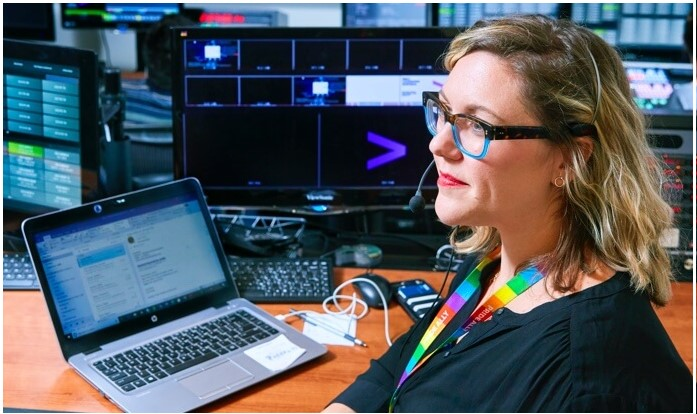
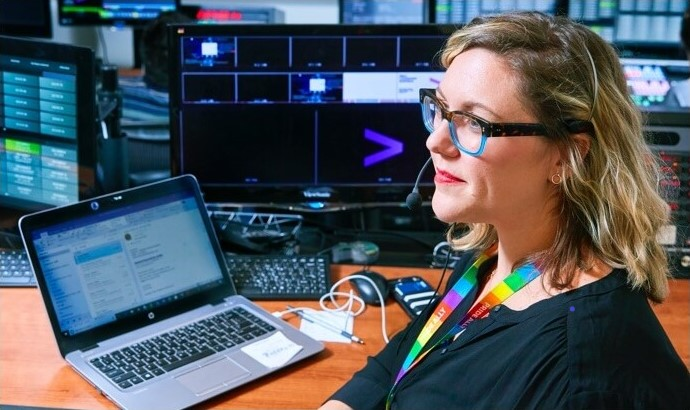
fixed miner issues and also home page lady img

diff --git a/src/components/Elements/Footer.tsx b/src/components/Elements/Footer.tsx
@@ -20,14 +20,14 @@ const FOOTER_DATA = [
         text: "Case Studies",
         link: "/case-studies",
       },
-      {
-        text: "Why Infosight",
-        link: "/why-infosight",
-      },
-      {
-        text: "About us",
-        link: "/about-us",
-      },
+      // {
+      //   text: "Why Infosight",
+      //   link: "/why-infosight",
+      // },
+      // {
+      //   text: "About us",
+      //   link: "/about-us",
+      // },
       {
         text: "Contact us",
         link: "/contact",
@@ -66,7 +66,7 @@ const Footer = () => {
     <ContentContainer>
       <div className="pt-5 lg:pt-20 flex flex-col-reverse gap-5 lg:flex-row items-start justify-between w-full">
         <div className="flex flex-col gap-3 ">
-          <a href="home-page">
+          <a href="/">
             <Image src={logoImg} alt="" className="w-56" />
           </a>
           <div>

diff --git a/src/components/HomePage/sub/OurServices.tsx b/src/components/HomePage/sub/OurServices.tsx
@@ -15,7 +15,7 @@ const OURSERVICES_DATA = [
     title: "Managed Security Services",
     description:
       "InfoSight's Security Operations Center (SOC) leverages sound and repeatable processes to mitigate threats in a systematic approach delivering superior outcomes with no alert fatigue ever.",
-    link: "SECaaS",
+    link: "/mitigator-vulnerability-threat-manager",
   },
   {
     img: serviceIcon2,
@@ -43,7 +43,7 @@ const OURSERVICES_DATA = [
     title: "Managed EDR",
     description:
       "InfoSight's Endpoint Detection & Response (EDR) provides you with real time incident response, enterprise remediation and threat containment 24x7x365. Coupled with our Security Operations Center (SOC).",
-    link: "managed-EDR",
+    link: "managed-edr",
   },
   {
     img: serviceIcon6,

diff --git a/src/components/HomePage/sub/WeAre.tsx b/src/components/HomePage/sub/WeAre.tsx
@@ -35,7 +35,11 @@ const WeAre = () => {
               </p>
               <Button text="Watch Video" onClick={handleOpenModal} />
             </div>
-            <Image src={aboutImg} alt="" className="lg:w-10/12 md:w-8/12" />
+            <Image
+              src={aboutImg}
+              alt=""
+              className="lg:w-10/12 md:w-8/12 border-2 border-gray-50 rounded-lg"
+            />
           </div>
         </div>
         <VideoPopup

diff --git a/src/components/CaseStudy/Sub/WeProvide.tsx b/src/components/CaseStudy/Sub/WeProvide.tsx
@@ -23,7 +23,7 @@ const WEPROVIDE_DATA = [
   {
     img: serviceIcon3,
     title: "Managed Security Services",
-    link: "SECaaS",
+    link: "/mitigator-vulnerability-threat-manager",
   },
   {
     img: serviceIcon4,
@@ -33,7 +33,7 @@ const WEPROVIDE_DATA = [
   {
     img: serviceIcon5,
     title: "Managed EDR",
-    link: "managed-EDR",
+    link: "managed-edr",
   },
   {
     img: serviceIcon6,

diff --git a/src/components/Compliance/index.tsx b/src/components/Compliance/index.tsx
@@ -32,6 +32,7 @@ const Compliance = () => {
     setSelected(newVal);
   }, [selectedFromParam]);
 
+  return null;
   return (
     <PageLayout hideWeProvide hideOurServices>
       <ComplianceHero />
